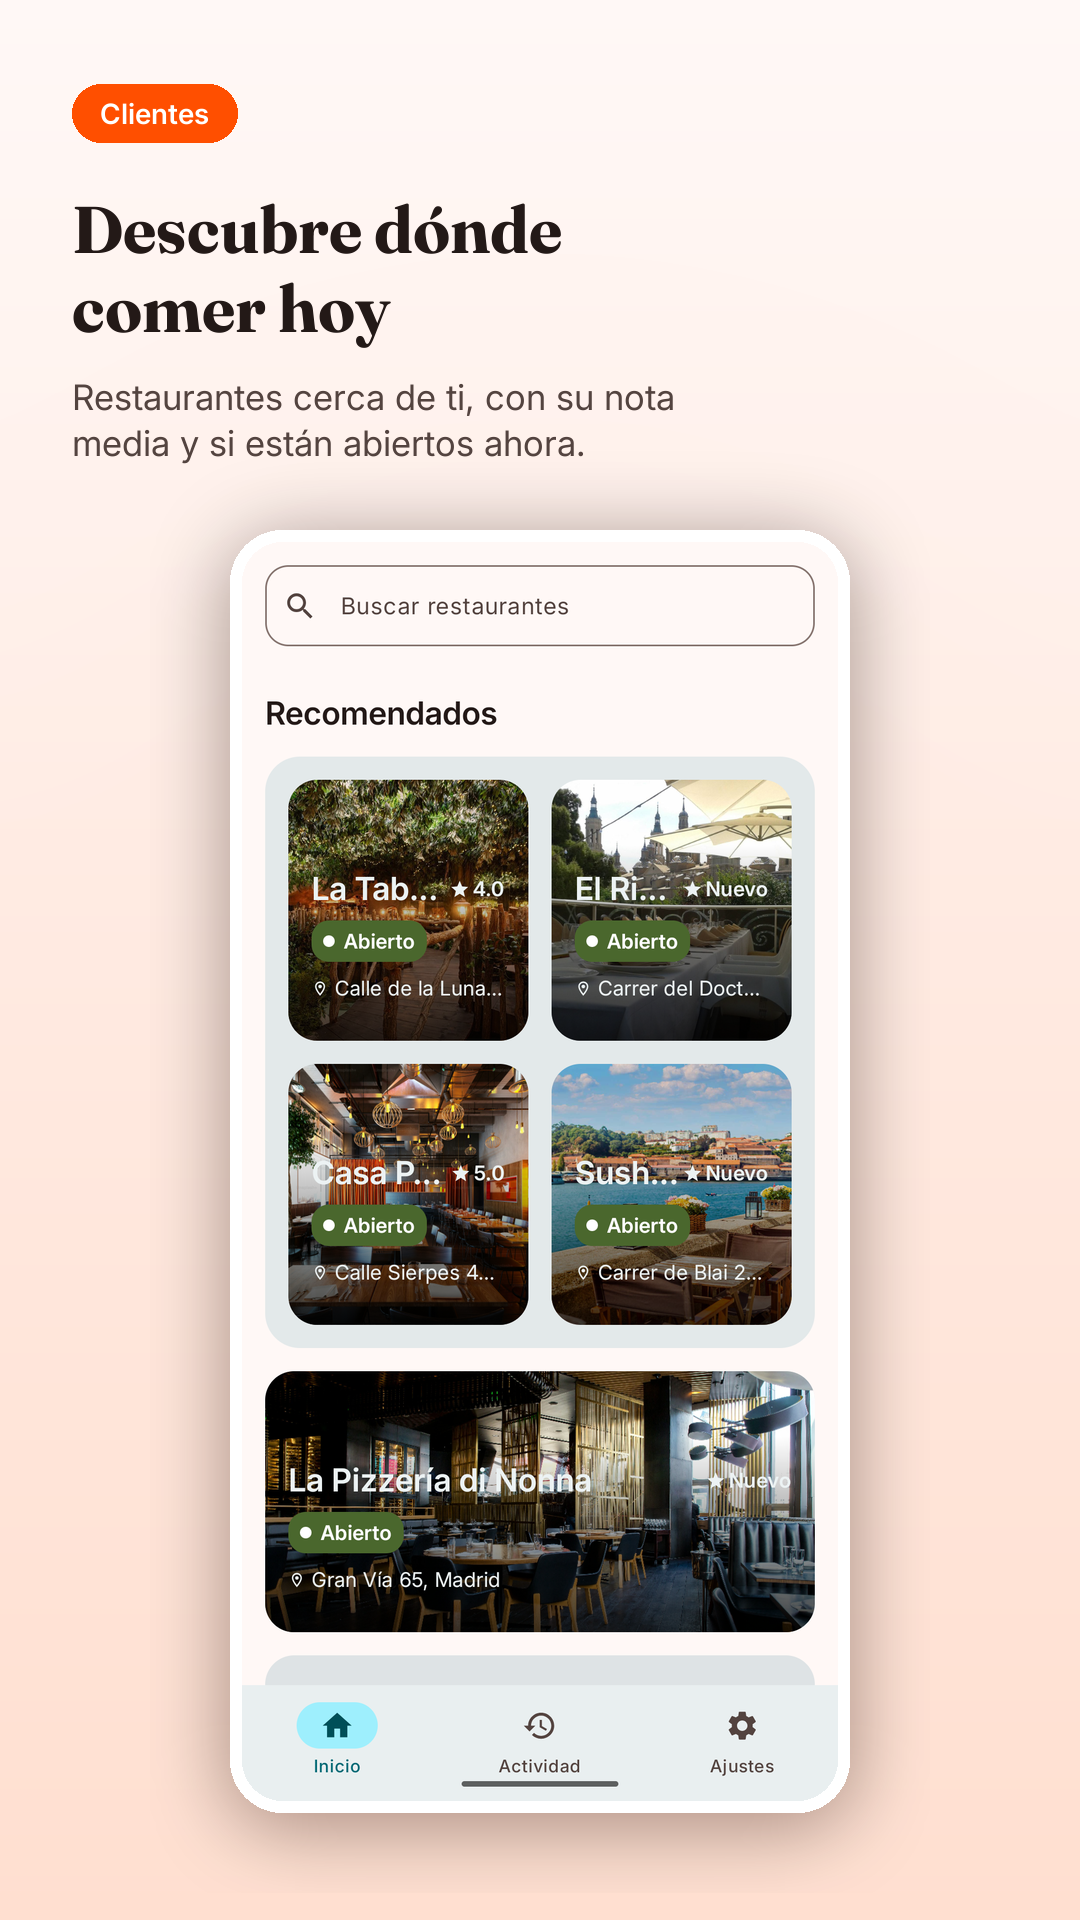
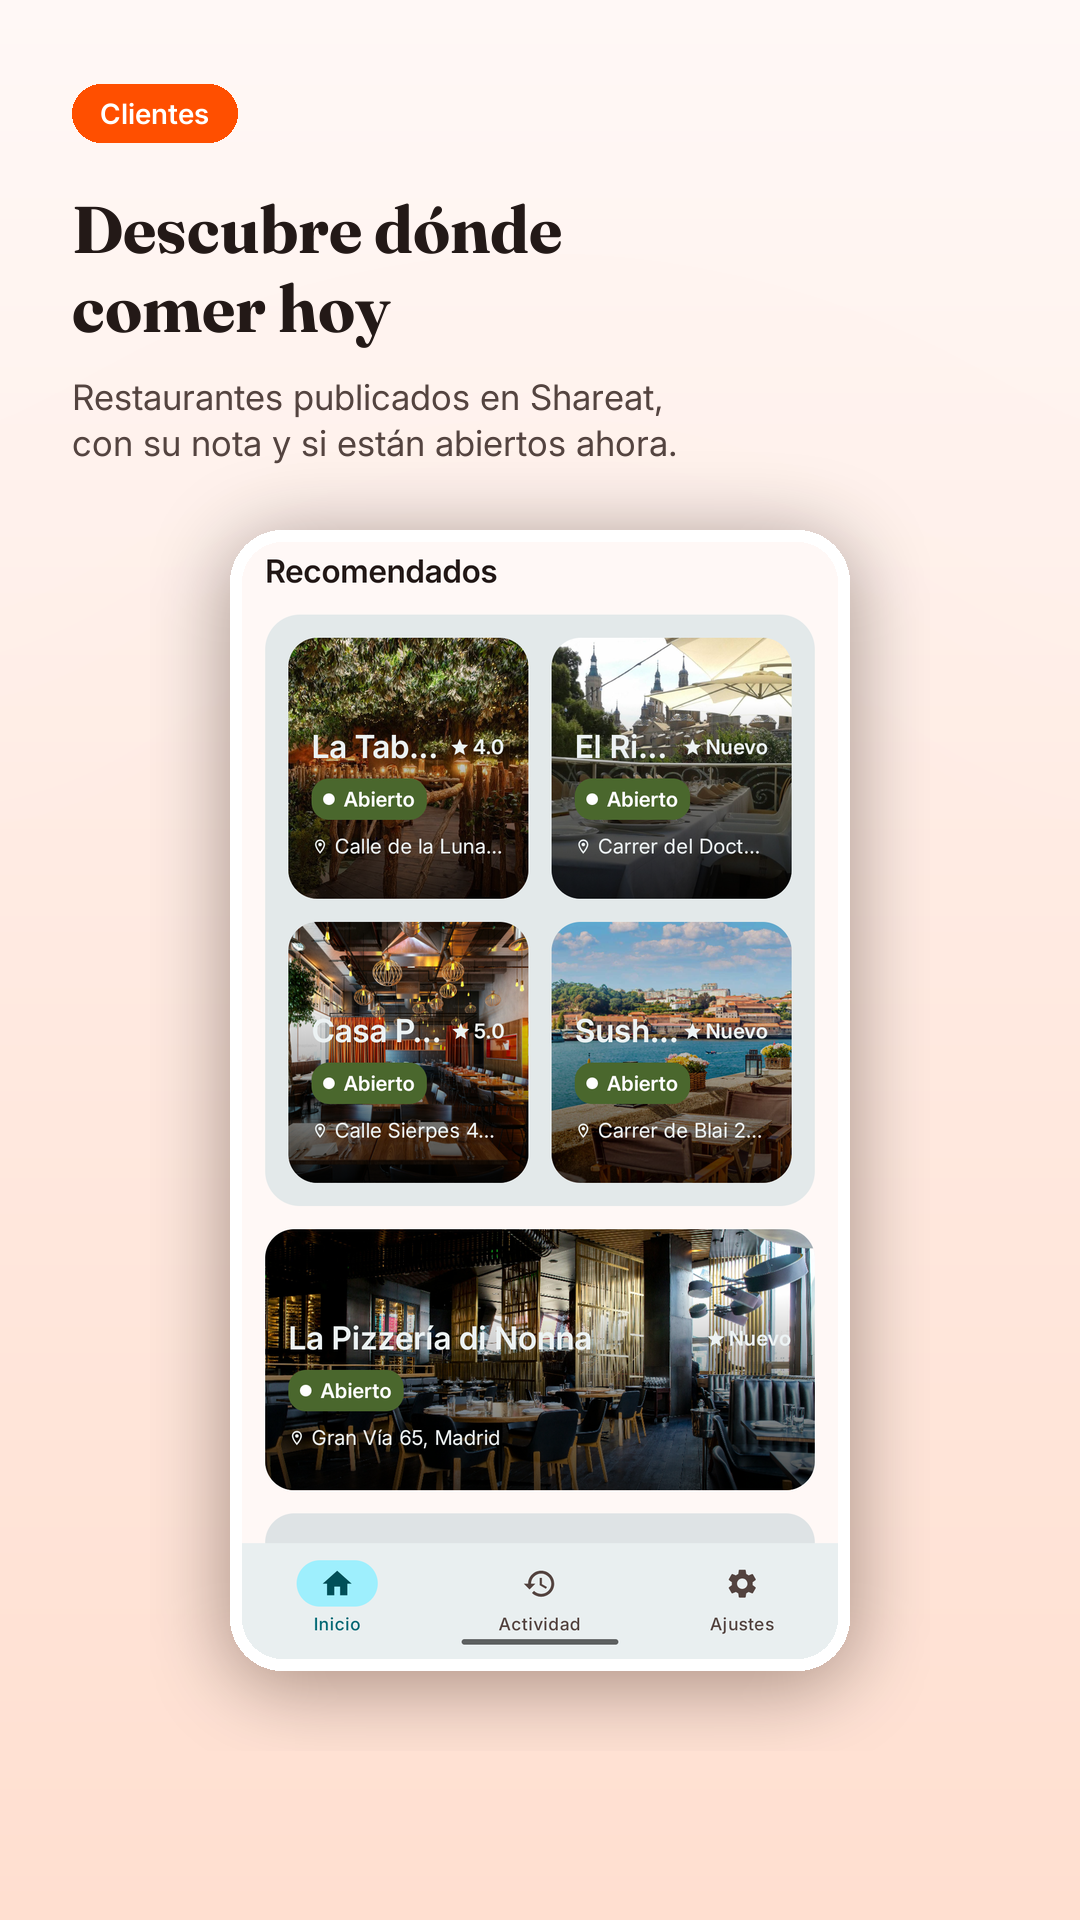
Correct store discovery copy

Changed region(s): [[0.1833, 0.2812, 0.825, 0.9688], [0.0611, 0.1875, 0.6111, 0.25]]

diff --git a/release/tools/compose_screenshots.py b/release/tools/compose_screenshots.py
@@ -44,7 +44,7 @@ TARGETS = {
 
 SHOTS = [
     ("01-descubre", "raw_c1", "Clientes", "Descubre dónde\ncomer hoy",
-     "Restaurantes cerca de ti, con su nota\nmedia y si están abiertos ahora."),
+     "Restaurantes publicados en Shareat,\ncon su nota y si están abiertos ahora."),
     ("02-carta", "raw_c2", "Clientes", "La carta entera,\nantes de sentarte",
      "Cada plato con su precio, su descripción\ny los alérgenos que declara el local."),
     ("03-alergenos", "raw_c3", "Clientes", "Filtra por\nalérgenos",

diff --git a/release/appstore/README.md b/release/appstore/README.md
@@ -61,7 +61,7 @@ Antes de reservar o de sentarte, mira la carta entera, el precio real de cada pl
 
 PARA QUIEN SALE A COMER
 
-• Descubre restaurantes cerca de ti, con su nota media y su horario, y entra a ver la carta sin registrarte.
+• Explora restaurantes disponibles en Shareat, con su nota media y su horario, y entra a ver la carta sin registrarte.
 • Consulta la carta completa: cada plato con su nombre, su descripción, su precio y los alérgenos que declara el restaurante.
 • Filtra por alérgenos. El filtro solo te ofrece los alérgenos que declara esa carta concreta, y nunca esconde un plato por falta de información.
 • Valora plato a plato del 1 al 5 y escribe un comentario si te apetece. Cada plato tiene su propia nota, no solo el local.
@@ -157,7 +157,7 @@ restaurante. Cada imagen lleva impresa su frase y una etiqueta de color
 
 | # | Archivo | Titular | Apoyo |
 | --- | --- | --- | --- |
-| 1 | `01-descubre.png` | Descubre dónde comer hoy | Restaurantes cerca de ti, con su nota media y si están abiertos ahora. |
+| 1 | `01-descubre.png` | Descubre dónde comer hoy | Restaurantes publicados en Shareat, con su nota y si están abiertos ahora. |
 | 2 | `02-carta.png` | La carta entera, antes de sentarte | Cada plato con su precio, su descripción y los alérgenos que declara el local. |
 | 3 | `03-alergenos.png` | Filtra por alérgenos | Solo aparecen los alérgenos que declara esa carta. Nada se da por supuesto. |
 | 4 | `04-valora-platos.png` | Valora plato a plato | No solo el restaurante: cada plato tiene su nota y sus reseñas. |

diff --git a/release/playstore/README.md b/release/playstore/README.md
@@ -51,7 +51,7 @@ Antes de reservar o de sentarte, mira la carta entera, el precio real de cada pl
 
 PARA QUIEN SALE A COMER
 
-• Descubre restaurantes cerca de ti, con su nota media y su horario, y entra a ver la carta sin registrarte.
+• Explora restaurantes disponibles en Shareat, con su nota media y su horario, y entra a ver la carta sin registrarte.
 • Consulta la carta completa: cada plato con su nombre, su descripción, su precio y los alérgenos que declara el restaurante.
 • Filtra por alérgenos. El filtro solo te ofrece los alérgenos que declara esa carta concreta, y nunca esconde un plato por falta de información.
 • Valora plato a plato del 1 al 5 y escribe un comentario si te apetece. Cada plato tiene su propia nota, no solo el local.
@@ -134,7 +134,7 @@ restaurante. Cada imagen lleva impresa su frase y una etiqueta de color
 
 | # | Archivo | Titular | Apoyo |
 | --- | --- | --- | --- |
-| 1 | `01-descubre.png` | Descubre dónde comer hoy | Restaurantes cerca de ti, con su nota media y si están abiertos ahora. |
+| 1 | `01-descubre.png` | Descubre dónde comer hoy | Restaurantes publicados en Shareat, con su nota y si están abiertos ahora. |
 | 2 | `02-carta.png` | La carta entera, antes de sentarte | Cada plato con su precio, su descripción y los alérgenos que declara el local. |
 | 3 | `03-alergenos.png` | Filtra por alérgenos | Solo aparecen los alérgenos que declara esa carta. Nada se da por supuesto. |
 | 4 | `04-valora-platos.png` | Valora plato a plato | No solo el restaurante: cada plato tiene su nota y sus reseñas. |
